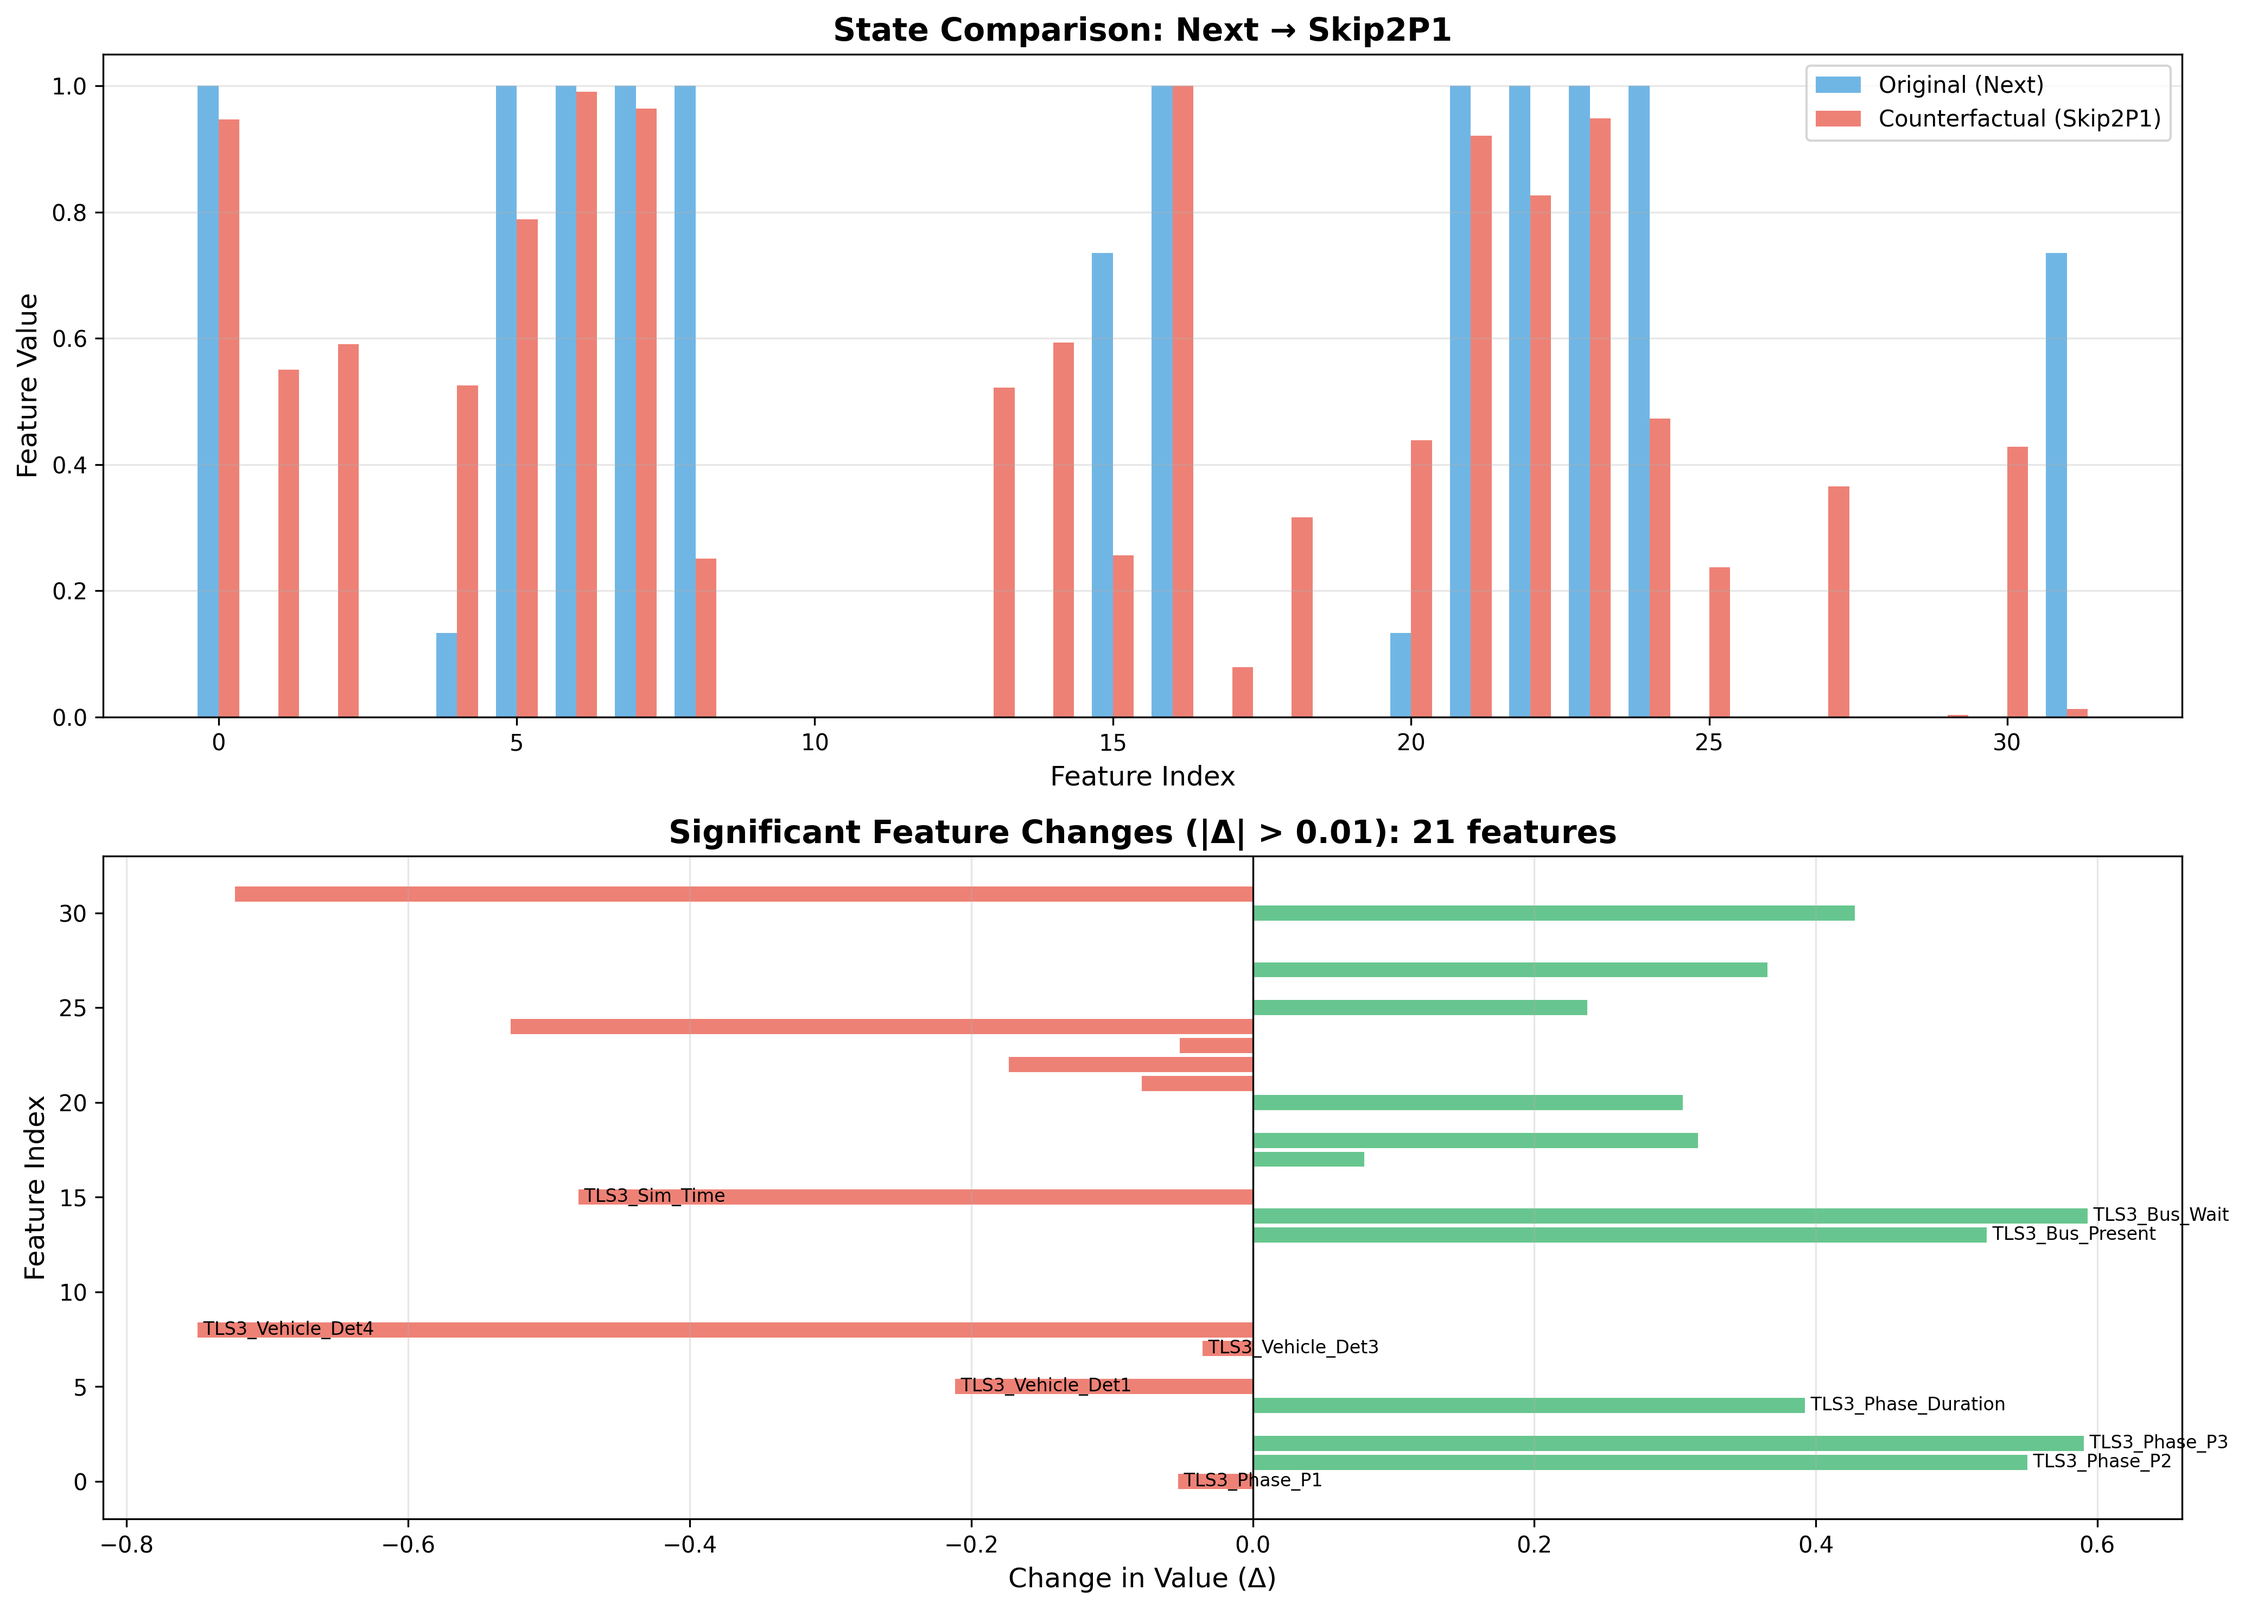
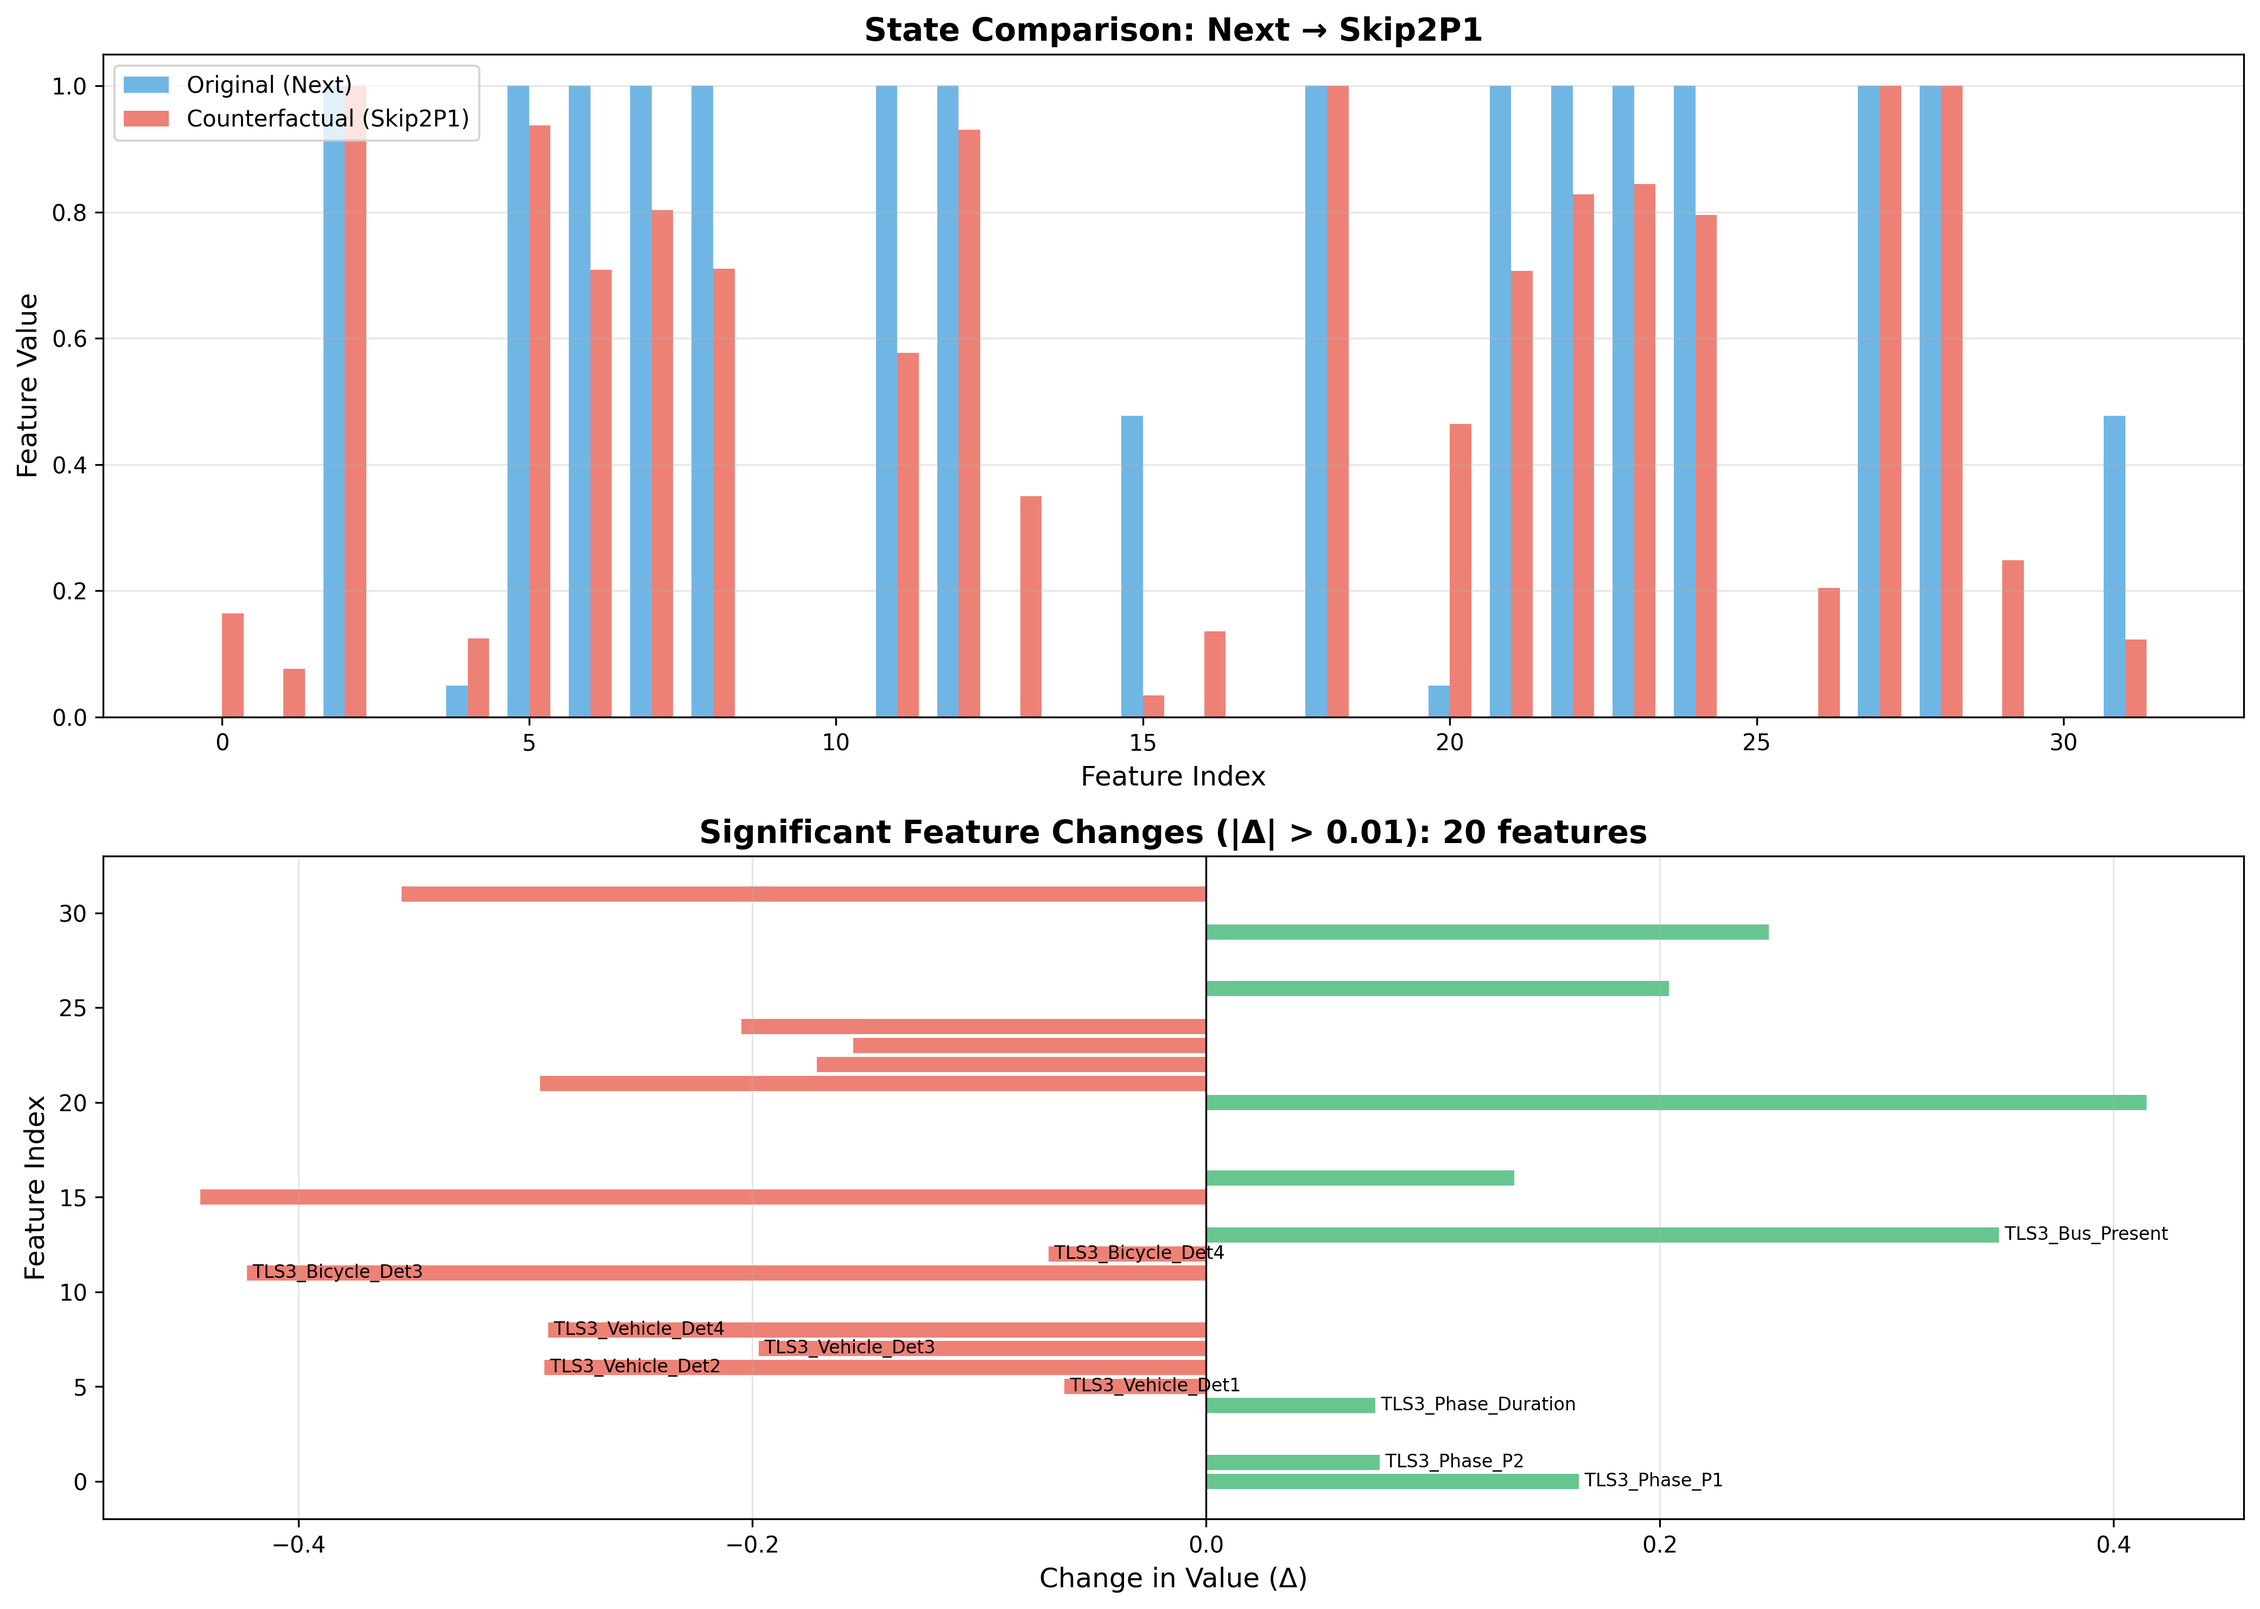
The commit is successful

diff --git a/results/Explainability_Reasult.md b/results/Explainability_Reasult.md
@@ -521,16 +521,16 @@ TRANSITION: Continue → Next
 ================================================================================
    Found 10 sample states
 
-   Attempt 1/10 (Scenario: Bi_0):
-   ✅ Success after 4 attempts, 5 iterations, distance: 1.151
+   Attempt 1/10 (Scenario: Pr_5):
+   ✅ Success after 1 attempts, 2 iterations, distance: 0.212
    💾 Saved: images/2/counterfactuals/cf_rare_Continue_to_Next_1.png
 
-   Attempt 2/10 (Scenario: Pe_1):
-   ✅ Success after 2 attempts, 3 iterations, distance: 0.606
+   Attempt 2/10 (Scenario: Pr_6):
+   ✅ Success after 1 attempts, 3 iterations, distance: 0.378
    💾 Saved: images/2/counterfactuals/cf_rare_Continue_to_Next_2.png
 
-   Attempt 3/10 (Scenario: Bi_6):
-   ✅ Success after 1 attempts, 4 iterations, distance: 0.592
+   Attempt 3/10 (Scenario: Pe_4):
+   ✅ Success after 3 attempts, 4 iterations, distance: 0.754
    💾 Saved: images/2/counterfactuals/cf_rare_Continue_to_Next_3.png
 
    ✅ Success rate: 3/10
@@ -540,16 +540,16 @@ TRANSITION: Skip2P1 → Next
 ================================================================================
    Found 10 sample states
 
-   Attempt 1/10 (Scenario: Pr_4):
-   ✅ Success after 1 attempts, 2 iterations, distance: 0.212
+   Attempt 1/10 (Scenario: Pe_1):
+   ✅ Success after 1 attempts, 2 iterations, distance: 0.218
    💾 Saved: images/2/counterfactuals/cf_rare_Skip2P1_to_Next_1.png
 
-   Attempt 2/10 (Scenario: Bi_9):
-   ✅ Success after 5 attempts, 1 iterations, distance: 0.367
+   Attempt 2/10 (Scenario: Pe_2):
+   ✅ Success after 1 attempts, 2 iterations, distance: 0.212
    💾 Saved: images/2/counterfactuals/cf_rare_Skip2P1_to_Next_2.png
 
-   Attempt 3/10 (Scenario: Pe_3):
-   ✅ Success after 1 attempts, 2 iterations, distance: 0.206
+   Attempt 3/10 (Scenario: Bi_8):
+   ✅ Success after 1 attempts, 2 iterations, distance: 0.240
    💾 Saved: images/2/counterfactuals/cf_rare_Skip2P1_to_Next_3.png
 
    ✅ Success rate: 3/10
@@ -560,15 +560,15 @@ TRANSITION: Next → Continue
    Found 10 sample states
 
    Attempt 1/10 (Scenario: Bi_7):
-   ✅ Success after 1 attempts, 2 iterations, distance: 0.187
+   ✅ Success after 1 attempts, 2 iterations, distance: 0.194
    💾 Saved: images/2/counterfactuals/cf_rare_Next_to_Continue_1.png
 
-   Attempt 2/10 (Scenario: Pr_7):
-   ✅ Success after 3 attempts, 3 iterations, distance: 0.528
+   Attempt 2/10 (Scenario: Pr_4):
+   ✅ Success after 1 attempts, 3 iterations, distance: 0.369
    💾 Saved: images/2/counterfactuals/cf_rare_Next_to_Continue_2.png
 
-   Attempt 3/10 (Scenario: Pe_7):
-   ✅ Success after 1 attempts, 2 iterations, distance: 0.206
+   Attempt 3/10 (Scenario: Bi_7):
+   ✅ Success after 1 attempts, 2 iterations, distance: 0.194
    💾 Saved: images/2/counterfactuals/cf_rare_Next_to_Continue_3.png
 
    ✅ Success rate: 3/10
@@ -578,16 +578,16 @@ TRANSITION: Next → Skip2P1
 ================================================================================
    Found 10 sample states
 
-   Attempt 1/10 (Scenario: Pr_5):
-   ✅ Success after 5 attempts, 22 iterations, distance: 1.839
+   Attempt 1/10 (Scenario: Bi_4):
+   ✅ Success after 3 attempts, 8 iterations, distance: 1.035
    💾 Saved: images/2/counterfactuals/cf_rare_Next_to_Skip2P1_1.png
 
-   Attempt 2/10 (Scenario: Pr_1):
-   ✅ Success after 1 attempts, 8 iterations, distance: 0.665
+   Attempt 2/10 (Scenario: Pe_7):
+   ✅ Success after 2 attempts, 3 iterations, distance: 0.438
    💾 Saved: images/2/counterfactuals/cf_rare_Next_to_Skip2P1_2.png
 
    Attempt 3/10 (Scenario: Bi_5):
-   ✅ Success after 1 attempts, 4 iterations, distance: 0.320
+   ✅ Success after 2 attempts, 2 iterations, distance: 0.391
    💾 Saved: images/2/counterfactuals/cf_rare_Next_to_Skip2P1_3.png
 
    ✅ Success rate: 3/10
@@ -674,16 +674,16 @@ VIPER Iteration 2/3
 
 ✅ Tree trained!
    Train accuracy: 97.09%
-   Test accuracy: 94.71%
+   Test accuracy: 94.70%
    Tree depth: 10
    Number of leaves: 390
 
 📊 Classification Report (Test Set):
               precision    recall  f1-score   support
 
-    Continue       0.96      0.99      0.97     48655
-     Skip2P1       0.63      0.77      0.69      1326
-        Next       0.94      0.79      0.86     10419
+    Continue       0.96      0.99      0.97     48654
+     Skip2P1       0.64      0.78      0.70      1301
+        Next       0.94      0.79      0.86     10445
 
     accuracy                           0.95     60400
    macro avg       0.84      0.85      0.84     60400
@@ -704,16 +704,16 @@ VIPER Iteration 3/3
 
 ✅ Tree trained!
    Train accuracy: 97.09%
-   Test accuracy: 92.69%
+   Test accuracy: 92.72%
    Tree depth: 10
    Number of leaves: 393
 
 📊 Classification Report (Test Set):
               precision    recall  f1-score   support
 
-    Continue       0.94      0.98      0.96     47576
-     Skip2P1       0.53      0.75      0.62      1397
-        Next       0.93      0.72      0.81     11827
+    Continue       0.94      0.98      0.96     47586
+     Skip2P1       0.53      0.75      0.62      1370
+        Next       0.93      0.72      0.81     11844
 
     accuracy                           0.93     60800
    macro avg       0.80      0.82      0.80     60800
@@ -734,26 +734,26 @@ Final Tree Training
 
 ✅ Tree trained!
    Train accuracy: 95.76%
-   Test accuracy: 89.39%
+   Test accuracy: 89.49%
    Tree depth: 8
    Number of leaves: 173
 
 📊 Classification Report (Test Set):
               precision    recall  f1-score   support
 
-    Continue       0.91      0.98      0.95     46601
-     Skip2P1       0.38      0.61      0.47      1472
-        Next       0.92      0.61      0.73     13127
+    Continue       0.91      0.98      0.95     46640
+     Skip2P1       0.38      0.62      0.47      1456
+        Next       0.92      0.61      0.73     13104
 
     accuracy                           0.89     61200
-   macro avg       0.74      0.73      0.72     61200
+   macro avg       0.74      0.74      0.72     61200
 weighted avg       0.90      0.89      0.89     61200
 
 
 [Phase 3/4] Extracting decision rules...
 
 ================================================================================
-EXTRACTED DECISION RULES (Accuracy: 89.4%)
+EXTRACTED DECISION RULES (Accuracy: 89.5%)
 ================================================================================
 
 |--- TLS6_Phase_P1 <= 0.500
@@ -1288,14 +1288,14 @@ EXTRACTED DECISION RULES (Accuracy: 89.4%)
    Sampled 10,000 states for analysis
 
    Action distribution (from real policy):
-   {'Continue': 8105, 'Skip2P1': 234, 'Next': 1661}
-     Continue: 81.0%
-     Skip2P1: 2.3%
-     Next: 16.6%
+   {'Continue': 8077, 'Skip2P1': 243, 'Next': 1680}
+     Continue: 80.8%
+     Skip2P1: 2.4%
+     Next: 16.8%
 💾 Saved confusion matrix to: images/2/viper/confusion_matrix.png
 💾 Saved tree to: images/2/viper/extracted_tree.pkl
 ✅ VIPER extraction complete!
-   Tree accuracy: 89.4%
+   Tree accuracy: 89.5%
    Tree depth: 8
    Number of leaves: 173
 
